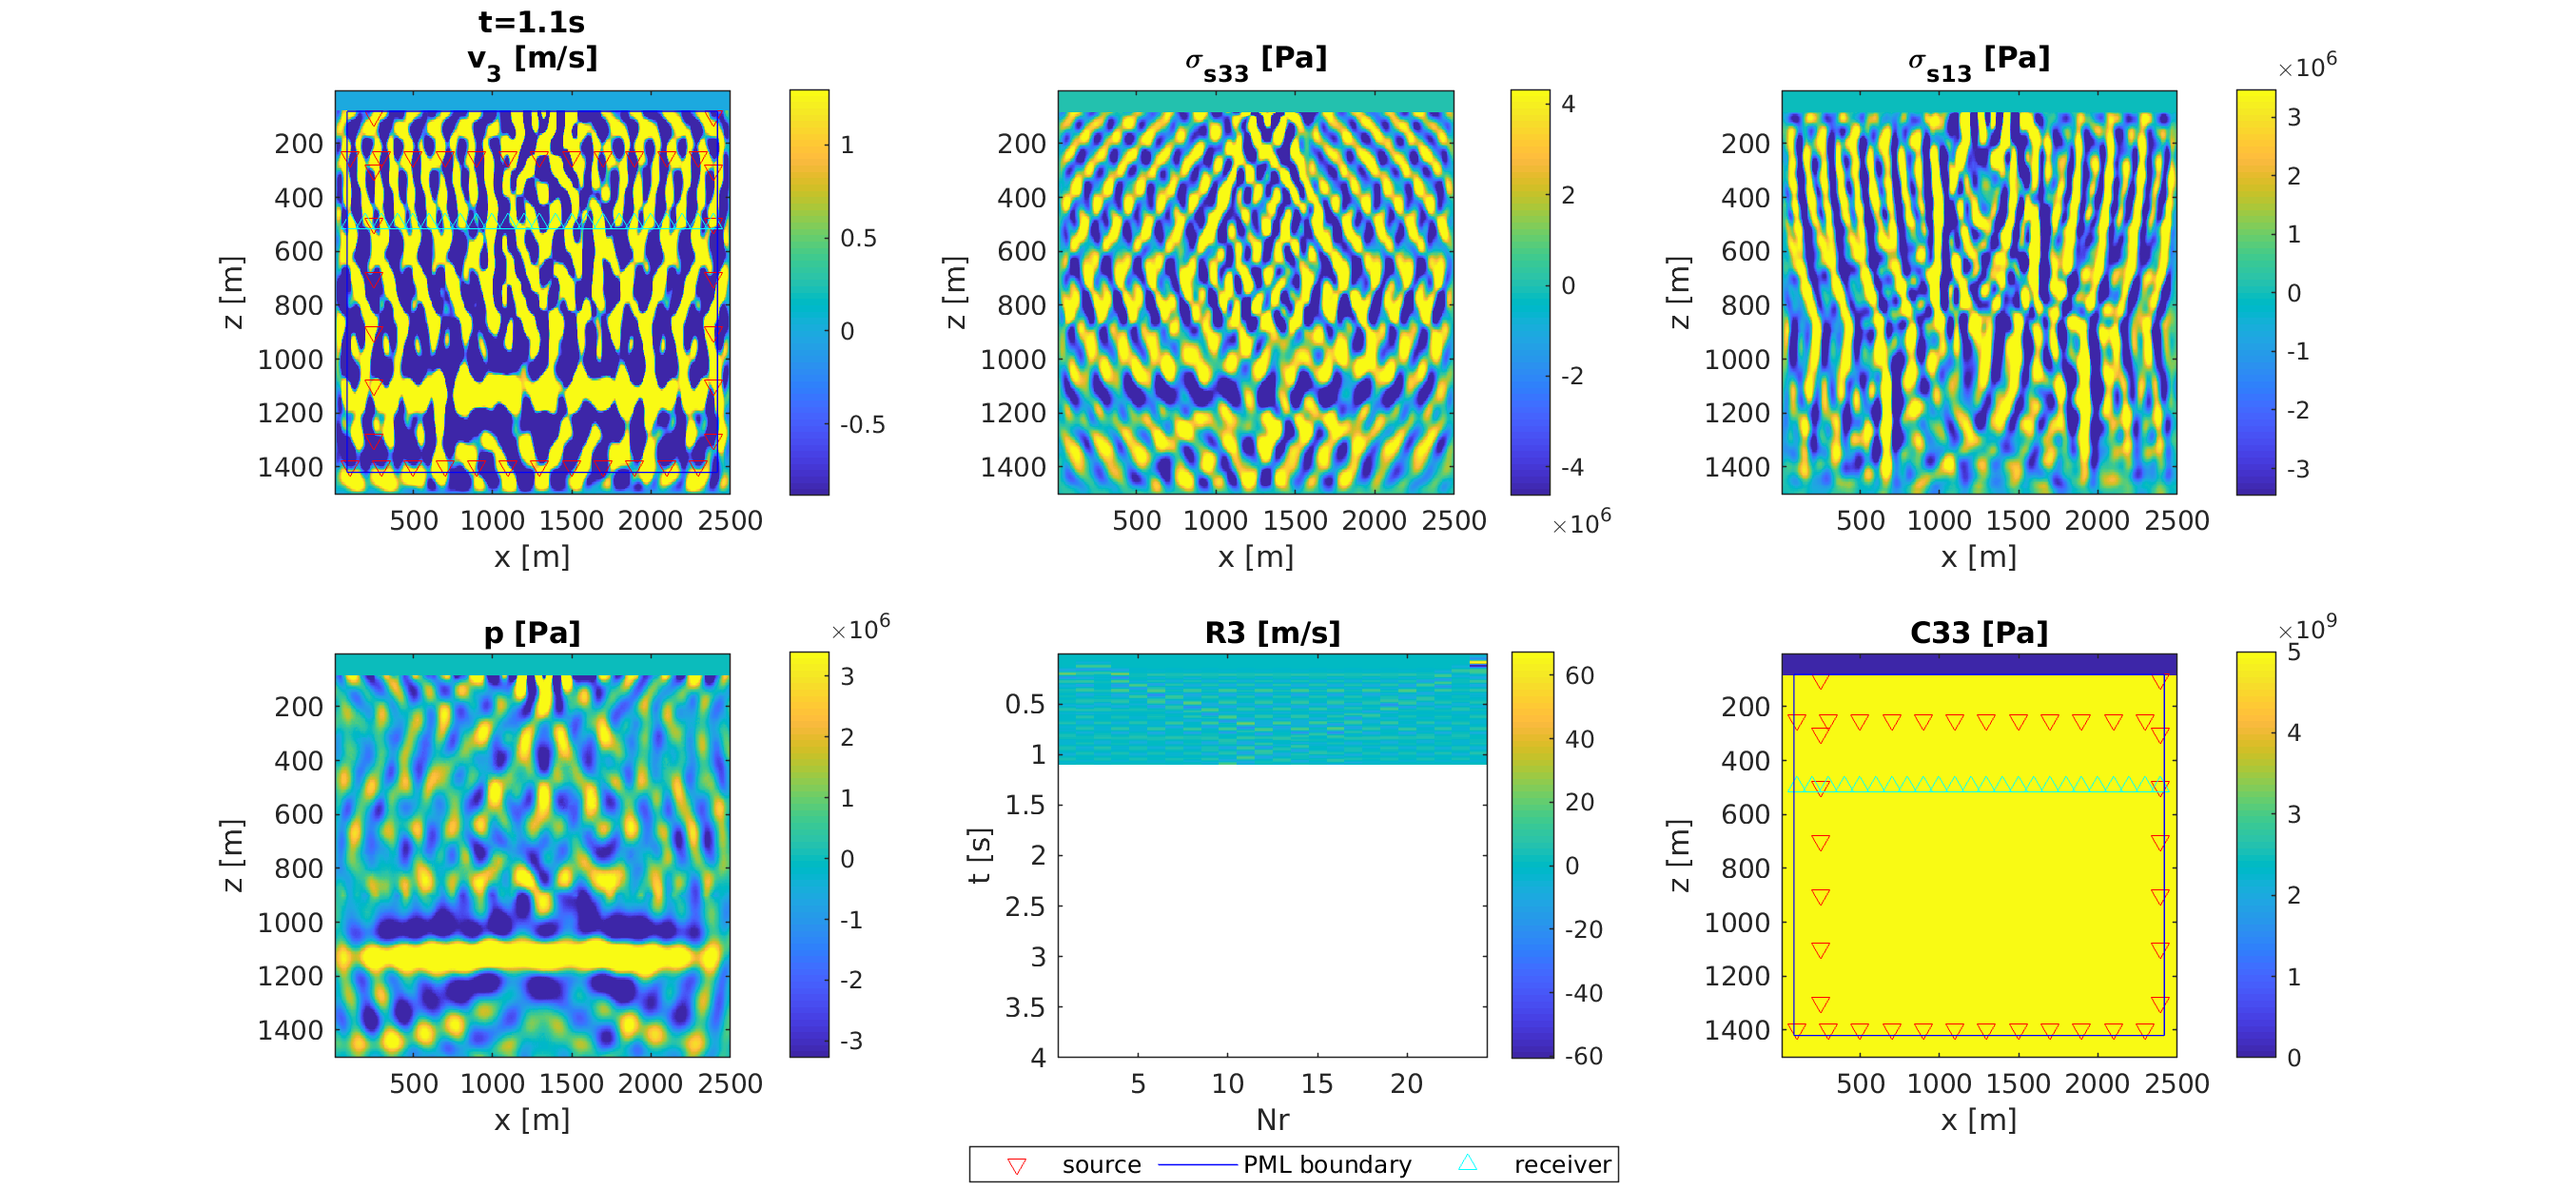
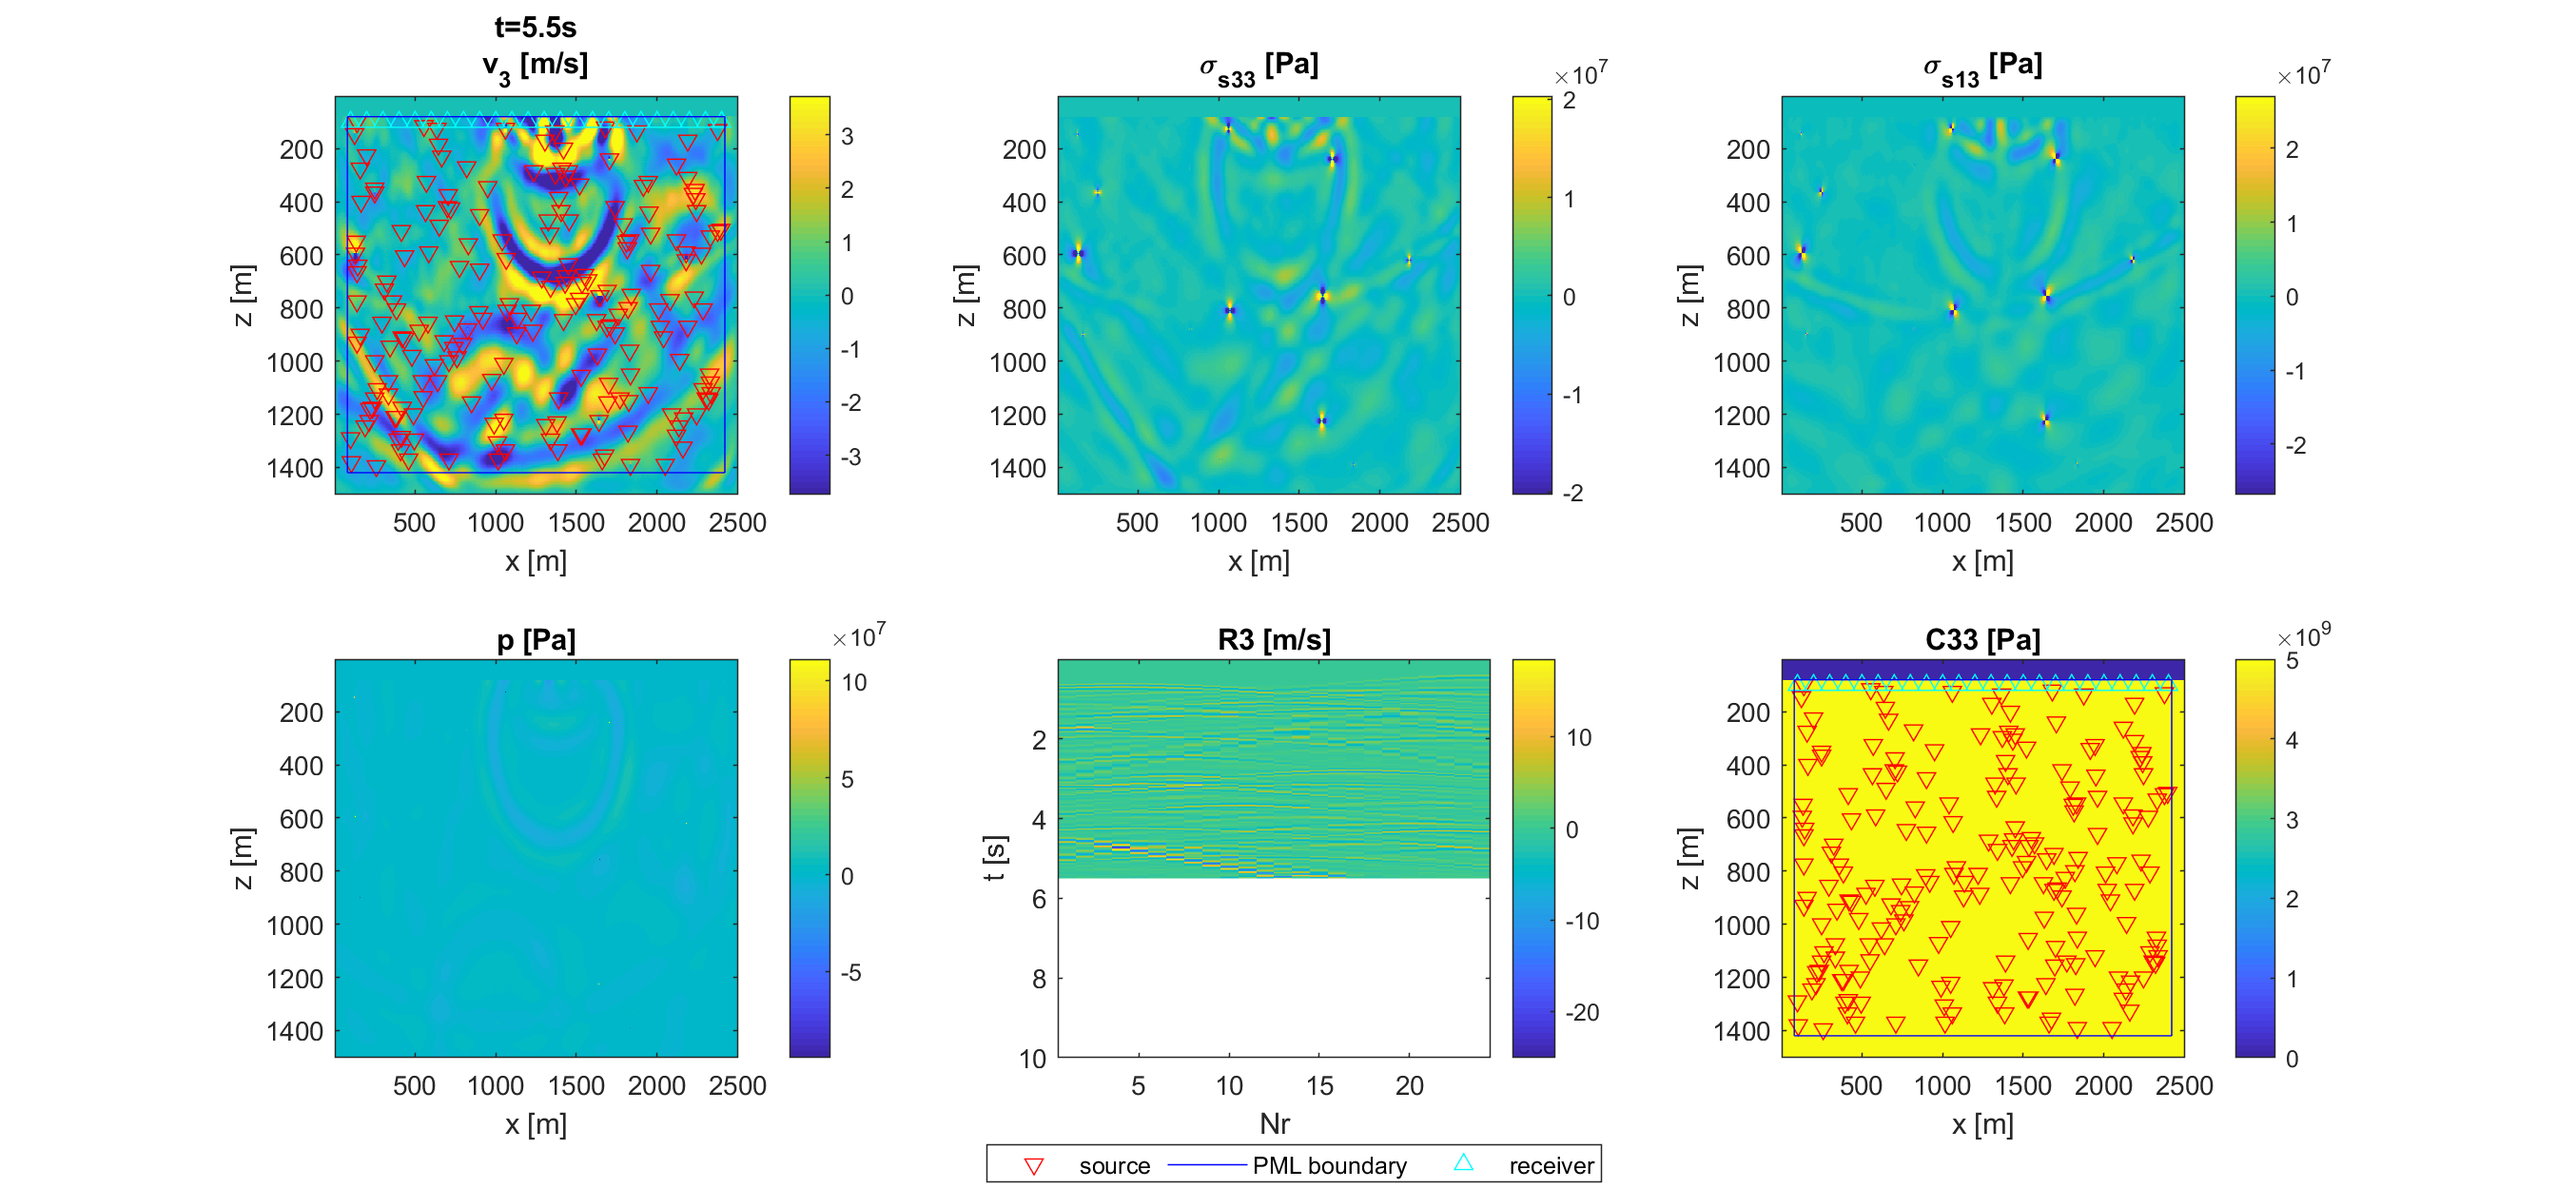
inte

diff --git a/input_inteferometry.m b/input_inteferometry.m
@@ -17,7 +17,7 @@ fluid=find(A==0);
 dt=10^-3;
 dx=5;
 dz=5;
-nt=4000;
+nt=10^4;
 nx=size(A,1);
 nz=size(A,2);
 
@@ -104,39 +104,51 @@ Eta15=C15*scale;
 Eta33=C33*scale;
 Eta35=C35*scale;
 Eta55=C55*scale;
+ns=5000;
 
-% source
 % magnitude
-M=2.7;
+M=2*ones(1,ns);
+
+% trigger time
+t_trigger=randi([1,nt-2000],[1,ns]);
+
+% sign
+si=randi([-1,1],[1,ns]);
 
 % source locations
 rng(1)
+%{
 tt=[20:40:480,20:40:480,ones(size(20:40:280))*50,ones(size(20:40:280))*480];
 tt2=[ones(size(20:40:480))*50,ones(size(20:40:480))*280,20:40:280,20:40:280];
-s1=tt;
-s3=tt2;
+%}
+s1=randi([20,500-20],[1,ns]);
+s3=randi([20,280],[1,ns]);
 
 % source frequency [Hz]
-freq=10;
+freq=5+sqrt(5)*randn([1,ns]);
+freq(freq<1)=1;
+
+% initialize source signal to x direction
+src1=zeros(nt,ns);
+
+% initialize source signal to z direction
+src3=zeros(nt,ns);
 
 % source signal
-singles=rickerWave(freq,dt,nt,M);
-
-% give source signal to x direction
-src1=0*repmat(singles,[1,length(s1)]);
-
-% give source signal to z direction
-src3=1*repmat(singles,[1,length(s1)]);
+for is=1:ns
+    src1(t_trigger(is):t_trigger(is)+1999,is)=si(is)*rickerWave(freq(is),dt,2000,M(is));
+    src3(t_trigger(is):t_trigger(is)+1999,is)=si(is)*rickerWave(freq(is),dt,2000,M(is));
+end
 
 % receiver locations [m]
 r1=20:20:480;
-r3=(ones(size(r1)))*100;
+r3=(ones(size(r1)))*20;
 
 % source type. 'D' for directional source. 'P' for P-source.
-source_type='D';
+source_type='P';
 
 % point interval in time steps
-plot_interval=100;
+plot_interval=500;
 
 % whether to save figure. 1 for save. 0 for not.
 save_figure=1;
@@ -171,41 +183,28 @@ for i=1:length(Nr)
     title(num2str(Nr(i)));
 end
 %%
-for l=22
-ref=l;
-int_R1=zeros(size(R1,1)*2-1,size(R1,2));
-int_R3=zeros(size(R3,1)*2-1,size(R3,2));
-lag1=zeros(1,size(R1,2));
-lag3=lag1;
-
-for i=1:size(int_R1,2)
-    int_R1(:,i)=xcorr(R1(:,i)',R1(:,ref)');
-    int_R3(:,i)=xcorr(R3(:,i),R3(:,ref));
+for ref=9
+    int_R1=(zeros(size(R1,1)*2-1,size(R1,2)));
+    int_R3=(zeros(size(R3,1)*2-1,size(R3,2)));
+    
+    for i=1:size(int_R1,2)
+        int_R1(:,i)=xcorr(R1(:,i),R1(:,ref));
+        int_R3(:,i)=xcorr(R3(:,i),R3(:,ref));
+    end
+    
+    figure(5);
+    subplot(2,2,1)
+    imagesc([1,Nr],[dt,dt*nt],R1);
+    colorbar;
+    title(num2str(ref));
+    subplot(2,2,2)
+    imagesc([1,Nr],[-dt*nt,dt*nt],int_R1);
+    colorbar;
+    subplot(2,2,3)
+    imagesc([1,Nr],[dt,dt*nt],R3);
+    colorbar;
+    subplot(2,2,4)
+    imagesc([1,Nr],[-dt*nt,dt*nt],int_R3);
+    colorbar;
+    shg;
 end
-
-figure(5);
-subplot(2,2,1)
-imagesc([1,Nr],[dt,dt*nt],R1);
-colorbar;
-title(num2str(l));
-subplot(2,2,2)
-imagesc([1,Nr],[-dt*nt,dt*nt],int_R1);
-colorbar;
-subplot(2,2,3)
-imagesc([1,Nr],[dt,dt*nt],R3);
-colorbar;
-subplot(2,2,4)
-imagesc([1,Nr],[-dt*nt,dt*nt],int_R3);
-colorbar;
-shg;
-end
-%%
-a=zeros(8,8);
-a(5:8,1:4)=flip(eye(4),2);
-a(5:8,5:8)=eye(4);
-b=zeros(15,8);
-for i=1:8
-    b(:,i)=xcorr(a(:,i),a(:,4));
-end
-figure;
-imagesc(b)

diff --git a/ad.m b/ad.m
@@ -1,15 +1,15 @@
 function u2=ad(u,n,direction)
 switch direction
     case 1
-        u2=zeros(size(u,1)+n,size(u,2));
+        u2=(zeros(size(u,1)+n,size(u,2),'single'));
         u2(1:end-n,:)=u;
     case -1
-        u2=zeros(size(u,1)+n,size(u,2));
+        u2=(zeros(size(u,1)+n,size(u,2),'single'));
         u2(n+1:end,:)=u;
     case 3
-        u2=zeros(size(u,1),size(u,2)+n);
+        u2=(zeros(size(u,1),size(u,2)+n,'single'));
         u2(:,1:end-n)=u;
     case -3
-        u2=zeros(size(u,1),size(u,2)+n);
+        u2=(zeros(size(u,1),size(u,2)+n,'single'));
         u2(:,n+1:end)=u;
 end

diff --git a/rickerWave.m b/rickerWave.m
@@ -1,10 +1,10 @@
 function ricker=rickerWave(freq,dt,ns,M)
 %% calculate scale
-E=10^(5.24+1.44*M);
-s=sqrt(E*freq/.299);
+E=10.^(5.24+1.44.*M);
+s=sqrt(E.*freq/.299);
 %%
 t=0:dt:dt*ns;
-t0=1/freq;
+t0=1./freq;
 t=t-t0;
 ricker=s*(1-2*pi^2*freq.^2*t.^2).*exp(-pi^2*freq^2*t.^2);
 ricker=ricker(2:end)';

diff --git a/Untitled.m b/Untitled.m
@@ -1,0 +1,6 @@
+A = randi(10,300,300,300);
+B = randi(10,300,300,300);
+tic;C=A+B;toc;
+A = gpuArray(A);
+B = gpuArray(B);
+tic;D=A+B;wait(gpuDevice);toc;
